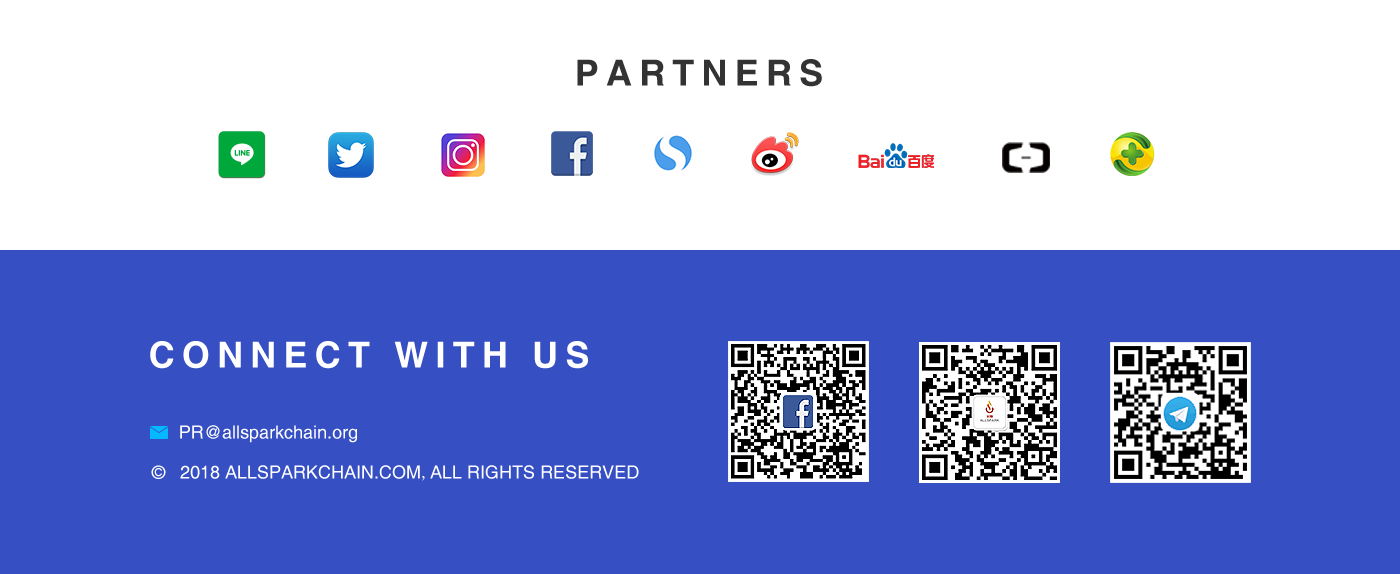
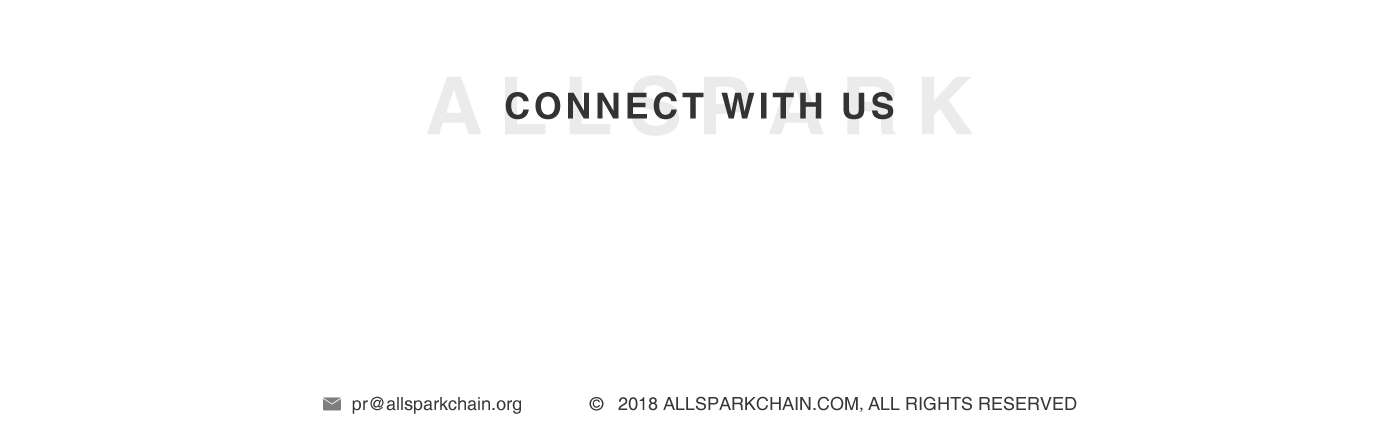
allspark

diff --git a/allspark/ico_intro.html b/allspark/ico_intro.html
@@ -28,30 +28,31 @@
     </header>
     <div class="icoWrap">
         <div class="icoFirst">
-            <p>40% for Pre-sale and public offering 120,000,000 ASK</p>
+            <p>40% for Pre-sale and public offering 120,000,000 ASK=40,000 ETH</p>
             <p>20% For project team 60,000,000 ASK</p>
             <p>5% For AllSpark nodes motivation 15,000,000 ASK </p>
-            <p>15% For community management45,000,000 ASK</p>
-            <p>20% Foundation and AllSpark ecosystem building60,000,000 ASK</p>
+            <p>15% For community management 45,000,000 ASK</p>
+            <p>20% Foundation and AllSpark ecosystem building 60,000,000 ASK</p>
         </div>
         <div class="icoCharts"></div>
         <div class="icoFirst">
             <p style="font-weight: bold; font-size: 30px; margin: 0 0 25px 0;">Detailed Release Plan：</p>
-            <p><b>Total Offering: </b>60,000 ETH</p>
-            <p><b>Pre-sale: </b>24,000 ETH or equivalent BTC or WAN coin</p>
-            <p><b>Public Offering: </b>36,000 ETH equivalent WAN ONLY</p>
-            <p><b>Private Offering：</b>Public Offering=2:3</p>
-            <p><b>Pre-sale Placement period：</b>6 months.</p>
-            <p><b></b>Pre-sale is only for Private Investors and Eco partners</p>
-            <p><b>Softcap：</b>40,000 ETH</p>
-            <p><b>Hardcap:</b> 60,000 ETH</p>
-            <p>For Public Offering 36,000 ETH equivalent WAN, we will use Wanchain smart contract to sell via WAN.</p>
+            <p><b>Total Offering: </b>120,000,000 ASK=40,000ETH.</p>
+            <p>Soft Cap=28,000ETH</p>
+            <p>Pre-sale: Public Offering=2:3</p>
+            <p><b>Pre-sale: </b>48,000,000 ASK (16,000 ETH)</p>
+            <p>Pre-sale, 20% Discount, 0.8ETH=3000 ASK. (Minimum 200 ETH, Maximum 2000 ETH)</p>
+            <p>Time: 2018.4.23--2018.7.15</p>
+            <p>Note: Accept ETH or equivalent BTC or WAN coin</p>
+            <p>Pre-sale is only for Private Investors and Eco partners</p>
+            <p>Pre-sale Placement period: 6 months. （From August 15）</p>
+            <p>Please contact PR@allsparkchain.org</p>
+            <p><b>Public Offering: </b>72,000,000 ASK (24,000 ETH) equivalent WAN ONLY</p>
+            <p>For Public Offering 24,000 ETH equivalent WAN, we will use Wanchain smart contract to sell via WAN.</p>
+            <p>Time: 2018.7.23-8.15</p>
             <p>Before the public offering, we will announce the Conversion ratio base on the market price of WAN and ETH.</p>
-            <p>5% For AllSpark nodes motivation 15,000,000 ASK </p>
-            <p>15% For community management 45,000,000 ASK</p>
-            <p style=" margin: 0 0 25px 0;">20% Foundation and AllSpark ecosystem building 60,000,000 ASK</p>
+            <p><br></p>            
             <p>Public offering will continue three weeks. Week 1 for 10% discount, week 2 for 5% discount, week 3 for original price.</p>
-            <p>(Minimum 0.1 ETH, Maximum 50ETH for every purchase)</p>
         </div>
         <div class="icoFirst">
             <p style="font-weight: bold; font-size: 30px; margin: 60px 0 25px 0;">Use of funds raised</p>

diff --git a/allspark/css/main.css b/allspark/css/main.css
@@ -24,7 +24,7 @@ header img{
 }
 header li{
     float: left;
-    margin-left: 30px;
+    margin-left: 46px;
     color: #ffffff;
     font-size: 16px;
     line-height: 71px;
@@ -204,8 +204,60 @@ header li.on span,header li:hover span{
 }
 .img10{
     width: 100%;
-    height: 574px;
+    height: 434px;
     background: url("../images/allspark_10.png?v1") no-repeat center top;
+}
+.img10 .spaCon{
+    padding-top: 233px;
+    height: 201px;
+}
+.spaPartner{
+    width: 100%;
+    height: 67px;
+    text-align: center;
+}
+.spaPartner a{
+    display: inline-block;
+    width: 67px;
+    height: 67px;
+    background: url("../images/partner.png") no-repeat;
+    margin: 0 25px;
+}
+.spaPartner a.a1{
+    background-position: 0 -84px;
+}
+.spaPartner a.a2{
+    background-position: -117px -84px;
+}
+.spaPartner a.a3{
+    background-position: -233px -84px;
+}
+.spaPartner a.a4{
+    background-position: -350px -84px;
+}
+.spaPartner a.a1:hover{
+    background-position: 0 0;
+}
+.spaPartner a.a2:hover{
+    background-position: -117px 0;
+}
+.spaPartner a.a3:hover{
+    background-position: -233px 0;
+}
+.spaPartner a.a4:hover{
+    background-position: -350px 0;
+}
+.spaMail{
+    position: absolute;
+    display: block;
+    bottom: 0;
+    left: 118px;
+    width: 210px;
+    height: 60px;
+    background: rgba(255,255,255,0);
+}
+.spaMail:hover{
+    background: rgba(255,255,255,0.25);
 }
 
 .icoHeader{
@@ -218,7 +270,7 @@ header li.on span,header li:hover span{
 .icoHeaderWrap{
     width: 1100px;
     height: 300px;
-    background: url("../images/ico_intro_wrap.png") no-repeat center top;
+    background: url("../images/ico_intro_wrap.png?v1") no-repeat center top;
     background-size: 100% 100%;
     margin: 0 auto;
     position: relative;
@@ -233,7 +285,7 @@ header li.on span,header li:hover span{
 }
 .icoWrap{
     width: 1100px;
-    margin: 40px auto 0 auto;
+    margin: 40px auto 120px auto;
     background: #fff;
     padding: 40px;
     box-sizing: border-box;

diff --git a/allspark/css/index.html b/allspark/css/index.html
@@ -26,6 +26,7 @@
             <li>SCENARIO<span></span></li>
             <li>ABOUT US<span></span></li>
             <li>TEAM<span></span></li>
+            <li>PARTNERS<span></span></li>
             <li><a style=" color: #fff; text-decoration: none;" href="ico_intro.html">ICO PLAN</a><span></span></li>
         </ul>
     </div>
@@ -40,6 +41,7 @@
             <li>SCENARIO<span></span></li>
             <li>ABOUT US<span></span></li>
             <li>TEAM<span></span></li>
+            <li>PARTNERS<span></span></li>
             <li><a style=" color: #fff; text-decoration: none;" href="ico_intro.html">ICO PLAN</a><span></span></li>
         </ul>
     </div>
@@ -100,17 +102,8 @@
     </div>
     <div class="spaSec5"><div class="img8"></div></div>
     <div class="spaSec6"><div class="img9"></div></div>
-    <div class="img10">
-        <div class="spaCon">
-            <div class="spaPartner">
-                <a target="_blank" href="https://www.facebook.com/allsparkchain/" class="a1"></a>
-                <a target="_blank" href="https://twitter.com/allsparkchain" class="a2"></a>
-                <a target="_blank" href="https://github.com/allsparkchain" class="a3"></a>
-                <a target="_blank" href="https://t.me/allsparkchat" class="a4"></a>
-            </div>
-            <a href="mailto:pr@allsparkchain.org" class="spaMail"></a>
-        </div> 
-    </div>
+    <div class="spaSec7"><div class="img10"></div></div>
+
 </section>
 
 <script type="text/javascript" src="js/jquery.min.js"></script>
